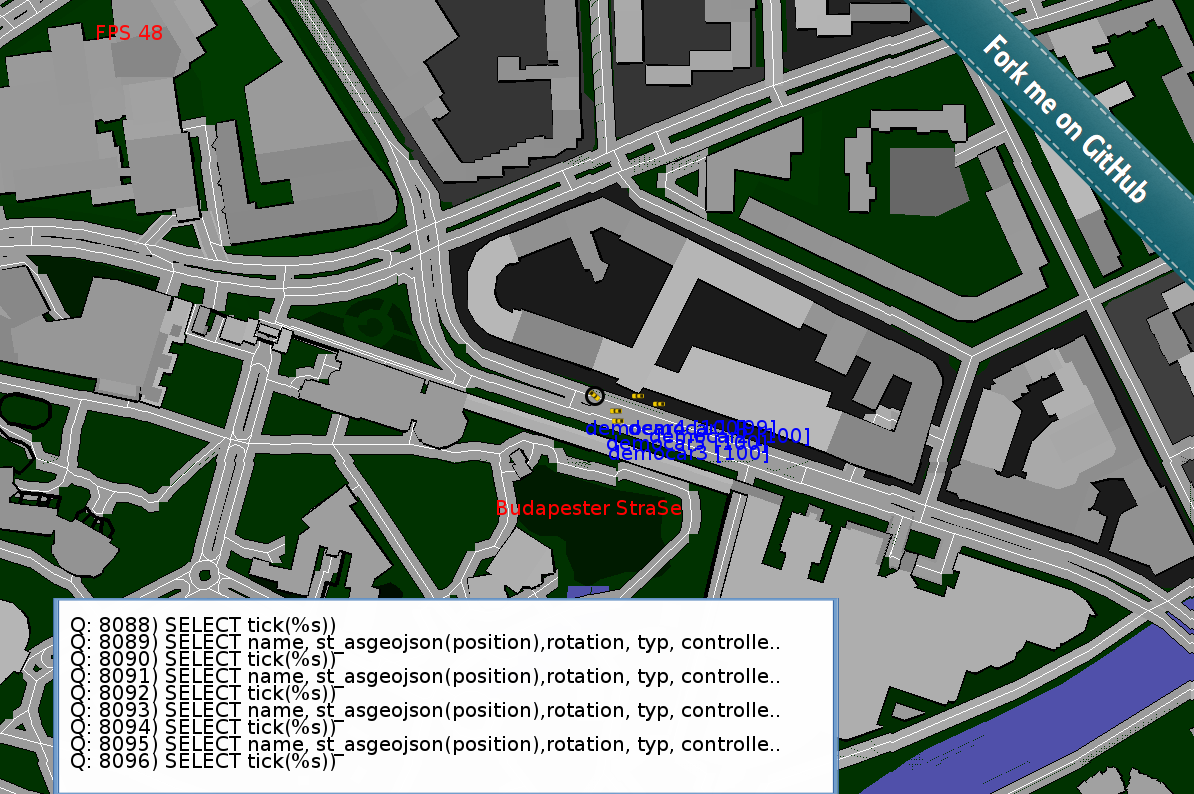
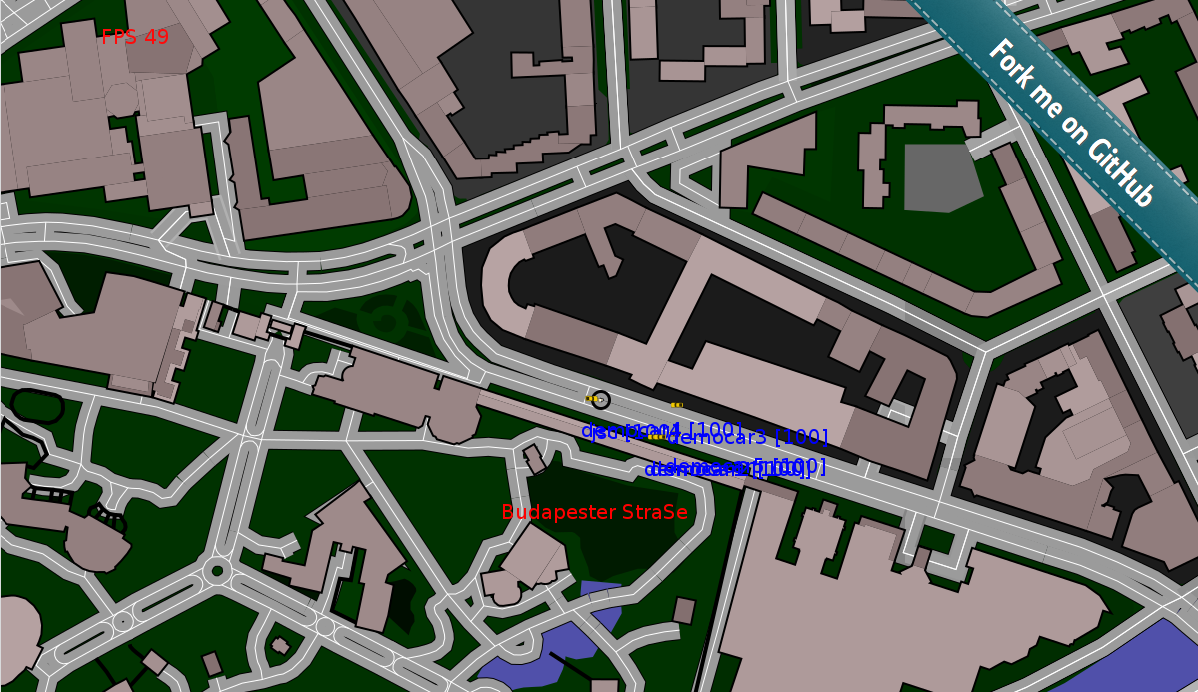
Updated preview with new rendering and minor changes to README

diff --git a/README.md b/README.md
@@ -1,8 +1,8 @@
 # GTS2
 This game is designed as a PostgreSQL playgound and techdemo.
-By utilizing PostGIS and Openstreetmap, the Database allows for quick geospatial queries for either buisness logic or rendering.
+By utilizing PostGIS and Openstreetmap, the Database allows for quick geospatial queries for either buisness logic or rendering. Also Rendering is done by a postgresql backend.
 
-The games logic is based on triggers and constraints. Hence here's little the Application has to do besides rendering and forwarding commands like "accelerate".
+The games logic is based on triggers and constraints. Hence here's little the application has to do besides forwarding commands like "accelerate".
 
 
 ![alt tag](https://github.com/zesoup/gts2/blob/master/images/GTS.png)
@@ -12,13 +12,10 @@ Currently based on Python2.7 the key requirements on the frontend are:
 
  * pygame
  * psycopg2
+ * cairo
 
 The Server requirements are:
 
  * postgresql >= 9.5
  * EXTENSION: postgis 2.2
  * EXTENSION: unaccent
-
-
-## Current State
-The games development has recently been rushed and alot of items need to be reworked.
